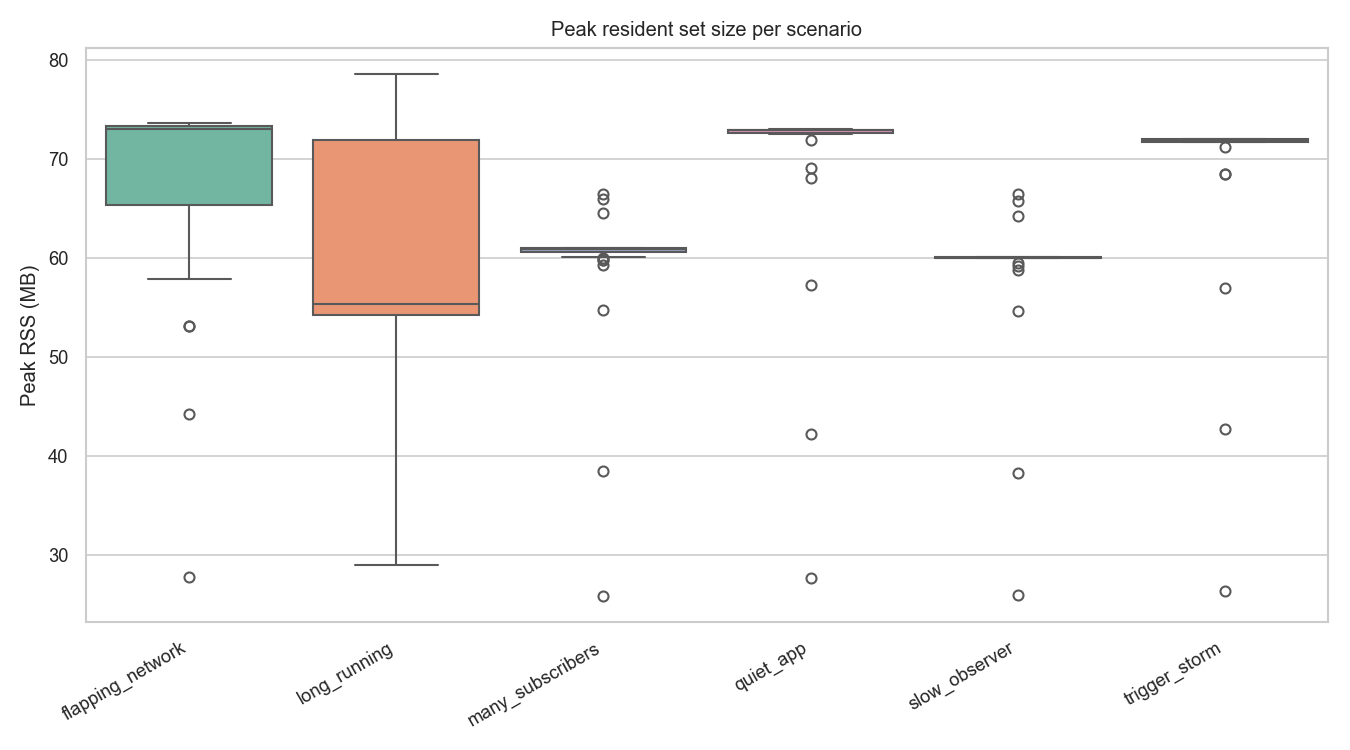
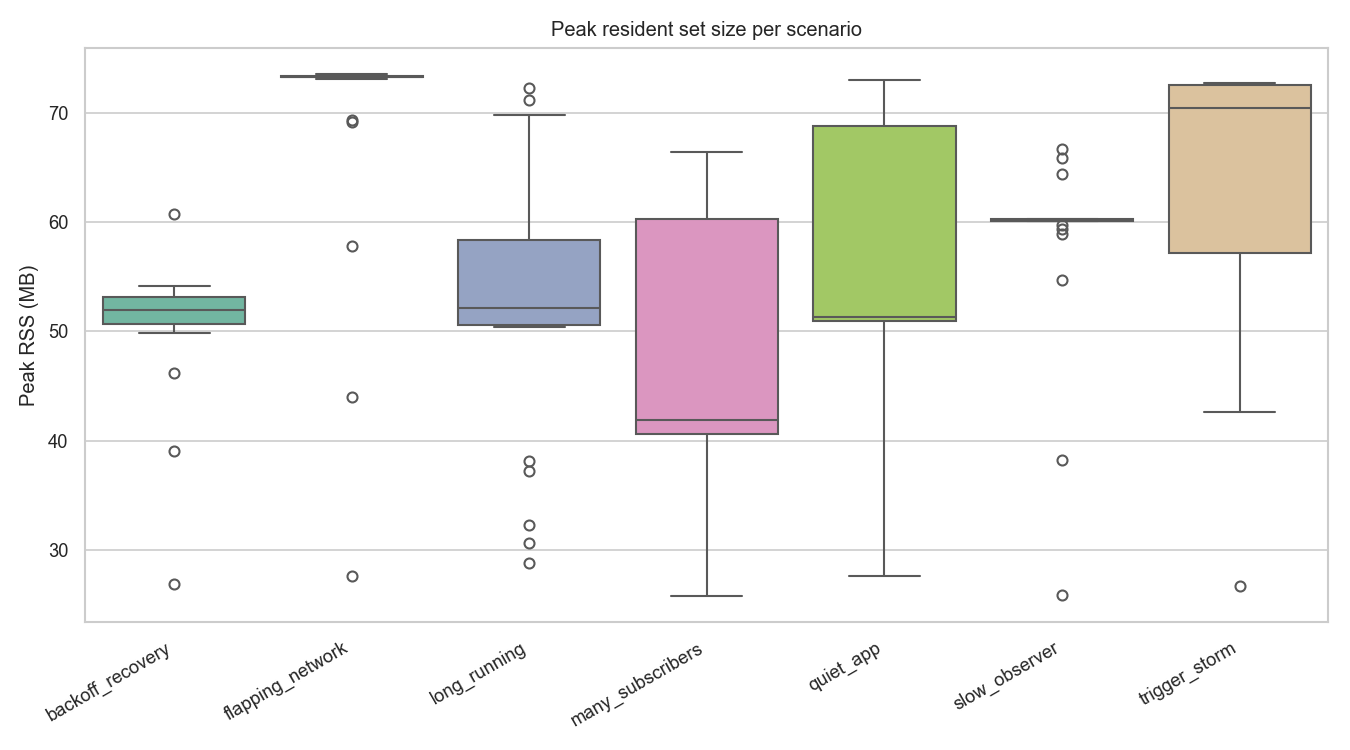
[#24] Add a backoff-recovery benchmark scenario

diff --git a/benchmark/scenarios/backoff_recovery.dart b/benchmark/scenarios/backoff_recovery.dart
@@ -1,0 +1,154 @@
+/// Scenario: backoff recovery.
+///
+/// One outage-then-recovery timeline, run twice per iteration: once on the default
+/// [FixedIntervalSchedule], once on [ExponentialBackoffSchedule]. Both arms see the same local
+/// server going 503 then 200 at the same offsets, so the pair of numbers is the trade the backoff
+/// schedule actually makes: fewer probes while the connection is down, against a later recovery
+/// signal once it returns.
+library;
+
+import 'dart:async';
+
+import 'package:better_internet_connectivity_checker/better_internet_connectivity_checker.dart';
+
+import '../harness/event_loop_stall_meter.dart';
+import '../harness/local_http_server.dart';
+import '../harness/memory_sampler.dart';
+import '../harness/result_writer.dart';
+import '../harness/scenario_args.dart';
+
+/// Base interval for both arms, so the only difference between them is the schedule.
+const _baseInterval = Duration(milliseconds: 500);
+
+/// Ceiling for the backoff arm. Two rungs above the base, so the ladder flattens inside a short
+/// outage rather than running off the end of the window.
+const _maxBackoffDelay = Duration(seconds: 2);
+
+/// Share of one arm's wall clock spent with the server down. The rest is the window in which
+/// recovery has to be noticed, and it has to stay comfortably wider than [_maxBackoffDelay].
+const _outageFraction = 0.6;
+
+typedef _ArmResult = ({
+  int outageRequestCount,
+  Duration recoveryLatency,
+  bool didRecover,
+  int emissionCount,
+});
+
+Future<void> main(List<String> argv) async {
+  final args = ScenarioArgs.parse(argv);
+
+  final writer = await ResultWriter.open(
+    outputPath: args.outputPath,
+    scenario: 'backoff_recovery',
+    sdkVersion: ScenarioArgs.sdkVersion,
+    packageVersion: args.packageVersion,
+    gitSha: args.gitSha,
+  );
+
+  for (var i = 0; i < args.iterations; i++) {
+    await _runIteration(args, iteration: i, writer: writer);
+    forceGc();
+    await Future<void>.delayed(const Duration(milliseconds: 100));
+  }
+
+  await writer.close();
+}
+
+Future<void> _runIteration(
+  ScenarioArgs args, {
+  required int iteration,
+  required ResultWriter writer,
+}) async {
+  // Half the budget per arm; they run back to back so neither competes for the event loop.
+  final armDuration = Duration(seconds: args.durationSeconds) ~/ 2;
+
+  final memorySampler = MemorySampler()..start();
+  final stallMeter = EventLoopStallMeter()..start();
+
+  forceGc();
+  final fixedArm = await _runArm(schedule: const FixedIntervalSchedule(), duration: armDuration);
+  final backoffArm = await _runArm(
+    schedule: const ExponentialBackoffSchedule(maxDelay: _maxBackoffDelay),
+    duration: armDuration,
+  );
+
+  stallMeter.stop();
+  memorySampler.stop();
+
+  writer.writeRecord(
+    iteration: iteration,
+    samples: {
+      'rss_bytes': memorySampler.samples,
+      'stall_microseconds': stallMeter.stalls.map((d) => d.inMicroseconds).toList(growable: false),
+    },
+    summary: {
+      'fixed_outage_request_count': fixedArm.outageRequestCount,
+      'backoff_outage_request_count': backoffArm.outageRequestCount,
+      'probe_savings_ratio': _savingsRatio(
+        fixed: fixedArm.outageRequestCount,
+        backoff: backoffArm.outageRequestCount,
+      ),
+      'fixed_recovery_latency_microseconds': fixedArm.recoveryLatency.inMicroseconds,
+      'backoff_recovery_latency_microseconds': backoffArm.recoveryLatency.inMicroseconds,
+      // 0 marks an arm that never saw recovery inside its window, which makes its latency a
+      // floor rather than a measurement. Filter on these before trusting the pair.
+      'fixed_did_recover': fixedArm.didRecover ? 1 : 0,
+      'backoff_did_recover': backoffArm.didRecover ? 1 : 0,
+      'fixed_emission_count': fixedArm.emissionCount,
+      'backoff_emission_count': backoffArm.emissionCount,
+      'max_stall_microseconds': stallMeter.maxStall.inMicroseconds,
+      'total_blocked_microseconds': stallMeter.totalBlocked.inMicroseconds,
+      'blocked_duty_ratio': stallMeter.blockedDutyRatio,
+      'peak_rss_bytes': memorySampler.peakRss,
+      'rss_delta_bytes': memorySampler.rssDelta,
+    },
+  );
+}
+
+Future<_ArmResult> _runArm({required CheckSchedule schedule, required Duration duration}) async {
+  final outage = Duration(microseconds: (duration.inMicroseconds * _outageFraction).round());
+  final recoveryWindow = duration - outage;
+
+  final server = LocalHttpServer();
+  await server.start();
+  server.setDown();
+
+  final checker = InternetConnection(
+    targets: [ProbeTarget(uri: server.baseUri)],
+    checkInterval: _baseInterval,
+    schedule: schedule,
+  );
+
+  final sinceRecovery = Stopwatch();
+  Duration? recoveryLatency;
+  var emissionCount = 0;
+  final subscription = checker.onStatusChange.listen((status) {
+    emissionCount++;
+    if (status is Reachable && sinceRecovery.isRunning && recoveryLatency == null) {
+      recoveryLatency = sinceRecovery.elapsed;
+    }
+  });
+
+  await Future<void>.delayed(outage);
+  final outageRequestCount = server.requestCount;
+
+  server.setUp();
+  sinceRecovery.start();
+  await Future<void>.delayed(recoveryWindow);
+
+  await subscription.cancel();
+  await checker.dispose();
+  await server.stop();
+
+  return (
+    outageRequestCount: outageRequestCount,
+    // An arm that never recovered reports the window as a floor; `didRecover` says which it is.
+    recoveryLatency: recoveryLatency ?? recoveryWindow,
+    didRecover: recoveryLatency != null,
+    emissionCount: emissionCount,
+  );
+}
+
+double _savingsRatio({required int fixed, required int backoff}) =>
+    fixed == 0 ? 0 : (fixed - backoff) / fixed;

diff --git a/benchmark/python/bicc_bench/config.py b/benchmark/python/bicc_bench/config.py
@@ -51,6 +51,7 @@ SCENARIO_DURATIONS: Final[dict[str, int]] = {
     "trigger_storm": 5,  # 500 triggers at 100/sec
     "many_subscribers": 3,  # x3 sub-Ns inside the binary = ~9s actual per iter
     "long_running": 30,  # smoke; raise to 3600 for a full hour bake
+    "backoff_recovery": 14,  # 2 arms x (4.2s outage + 2.8s recovery window)
     # Micros - value is irrelevant (ignored by the binary), but listed so
     # the orchestrator passes _something_.
     "check_once_overhead": 0,

diff --git a/benchmark/reports/SUMMARY.md b/benchmark/reports/SUMMARY.md
@@ -1,6 +1,6 @@
 # Benchmark results
 
-Captured **2026-07-24** against `0.2.0` at `b27e6b9` on Dart SDK 3.12.2. N=30 iterations per scenario.
+Captured **2026-08-20** against `0.2.0` at `0a2a848` on Dart SDK 3.13.0. N=30 iterations per scenario.
 
 > Per-machine measurements. Numbers below reflect *this* machine (CPU, GC, OS scheduler, thermal state). Your numbers WILL differ - capture your own local baseline before measuring a code delta.
 
@@ -10,12 +10,13 @@ Longest single continuous window in which synchronous work blocked the event loo
 
 | Scenario | N | Median (us) | IQR (us) | Min (us) | Max (us) |
 |---|---:|---:|---:|---:|---:|
-| `flapping_network` | 30 | 4,453 | 3,374 | 0.000 | 12,808 |
-| `long_running` | 30 | 7,708 | 3,669 | 3,992 | 21,360 |
-| `many_subscribers` | 90 | 3,203 | 1,783 | 0.000 | 12,070 |
-| `quiet_app` | 30 | 5,066 | 2,403 | 3,242 | 10,537 |
-| `slow_observer` | 30 | 116,174 | 8,922 | 104,072 | 123,874 |
-| `trigger_storm` | 30 | 4,897 | 1,518 | 1,919 | 10,280 |
+| `backoff_recovery` | 30 | 6,198 | 4,804 | 1,649 | 29,570 |
+| `flapping_network` | 30 | 4,915 | 1,655 | 3,187 | 13,353 |
+| `long_running` | 30 | 12,444 | 6,743 | 5,820 | 105,012 |
+| `many_subscribers` | 90 | 5,068 | 4,203 | 1,100 | 19,206 |
+| `quiet_app` | 30 | 5,614 | 2,066 | 2,887 | 10,821 |
+| `slow_observer` | 30 | 110,298 | 3,186 | 103,052 | 119,700 |
+| `trigger_storm` | 30 | 5,606 | 4,707 | 2,645 | 16,583 |
 
 
 ![Headline max stall](headline_max_stall.png)
@@ -26,12 +27,13 @@ Longest single continuous window in which synchronous work blocked the event loo
 
 | Scenario | N | Median (%) | IQR (%) | Min (%) | Max (%) |
 |---|---:|---:|---:|---:|---:|
-| `flapping_network` | 30 | 0.37% | 0.58% | 0.00% | 1.79% |
-| `long_running` | 30 | 0.55% | 0.40% | 0.06% | 1.49% |
-| `many_subscribers` | 90 | 0.59% | 0.76% | 0.00% | 1.83% |
-| `quiet_app` | 30 | 0.49% | 0.57% | 0.07% | 1.60% |
-| `slow_observer` | 30 | 57.38% | 0.78% | 56.47% | 58.47% |
-| `trigger_storm` | 30 | 0.38% | 0.69% | 0.06% | 1.74% |
+| `backoff_recovery` | 30 | 0.20% | 0.15% | 0.07% | 8.19% |
+| `flapping_network` | 30 | 0.11% | 0.54% | 0.04% | 1.28% |
+| `long_running` | 30 | 0.86% | 1.22% | 0.32% | 14.78% |
+| `many_subscribers` | 90 | 0.80% | 0.86% | 0.04% | 2.76% |
+| `quiet_app` | 30 | 0.59% | 0.57% | 0.14% | 1.76% |
+| `slow_observer` | 30 | 55.01% | 0.37% | 54.46% | 56.28% |
+| `trigger_storm` | 30 | 0.57% | 0.77% | 0.05% | 2.21% |
 
 ## Peak resident set size per scenario
 
@@ -39,12 +41,13 @@ Peak RSS captured via `ProcessInfo.currentRss` sampled every 500 ms (every 250 m
 
 | Scenario | N | Median (MB) | IQR (MB) | Min (MB) | Max (MB) |
 |---|---:|---:|---:|---:|---:|
-| `flapping_network` | 30 | 73.05 | 9.33 | 27.73 | 73.61 |
-| `long_running` | 30 | 55.29 | 17.97 | 28.95 | 78.53 |
-| `many_subscribers` | 90 | 60.89 | 0.36 | 25.86 | 66.41 |
-| `quiet_app` | 30 | 72.95 | 0.33 | 27.67 | 72.97 |
-| `slow_observer` | 30 | 60.02 | 0.11 | 25.89 | 66.48 |
-| `trigger_storm` | 30 | 71.84 | 0.28 | 26.33 | 72.03 |
+| `backoff_recovery` | 30 | 51.99 | 2.56 | 26.89 | 60.70 |
+| `flapping_network` | 30 | 73.27 | 0.14 | 27.70 | 73.48 |
+| `long_running` | 30 | 52.13 | 7.94 | 28.88 | 72.23 |
+| `many_subscribers` | 90 | 41.91 | 19.64 | 25.88 | 66.44 |
+| `quiet_app` | 30 | 51.31 | 18.02 | 27.64 | 73.00 |
+| `slow_observer` | 30 | 60.19 | 0.16 | 25.91 | 66.62 |
+| `trigger_storm` | 30 | 70.38 | 15.39 | 26.73 | 72.73 |
 
 
 ![Memory peak RSS](memory_peak_rss.png)
@@ -55,11 +58,12 @@ Same metric as the headline chart, but with the `slow_observer` outlier excluded
 
 | Scenario | N | Median (us) | IQR (us) | Min (us) | Max (us) |
 |---|---:|---:|---:|---:|---:|
-| `flapping_network` | 30 | 4,453 | 3,374 | 0.000 | 12,808 |
-| `long_running` | 30 | 7,708 | 3,669 | 3,992 | 21,360 |
-| `many_subscribers` | 90 | 3,203 | 1,783 | 0.000 | 12,070 |
-| `quiet_app` | 30 | 5,066 | 2,403 | 3,242 | 10,537 |
-| `trigger_storm` | 30 | 4,897 | 1,518 | 1,919 | 10,280 |
+| `backoff_recovery` | 30 | 6,198 | 4,804 | 1,649 | 29,570 |
+| `flapping_network` | 30 | 4,915 | 1,655 | 3,187 | 13,353 |
+| `long_running` | 30 | 12,444 | 6,743 | 5,820 | 105,012 |
+| `many_subscribers` | 90 | 5,068 | 4,203 | 1,100 | 19,206 |
+| `quiet_app` | 30 | 5,614 | 2,066 | 2,887 | 10,821 |
+| `trigger_storm` | 30 | 5,606 | 4,707 | 2,645 | 16,583 |
 
 
 ![Scenario stability](scenario_stability.png)
@@ -70,11 +74,11 @@ From the `status_emission` micro (synchronous broadcast, isolated from the rest 
 
 | Subscribers | N | Median (us/emit) | IQR (us) |
 |---:|---:|---:|---:|
-| 1 | 30 | 0.137 | 0.002 |
-| 10 | 30 | 1.00 | 0.010 |
-| 25 | 30 | 2.31 | 0.026 |
-| 50 | 30 | 4.47 | 0.061 |
-| 100 | 30 | 8.96 | 0.174 |
+| 1 | 30 | 0.133 | 0.004 |
+| 10 | 30 | 1.00 | 0.022 |
+| 25 | 30 | 2.30 | 0.065 |
+| 50 | 30 | 4.47 | 0.112 |
+| 100 | 30 | 8.96 | 0.218 |
 
 
 ![Subscriber scaling](subscriber_scaling.png)

diff --git a/benchmark/README.md b/benchmark/README.md
@@ -231,9 +231,9 @@ uv run python run.py compare \
   ../results-local/after/aggregated.json
 ```
 
-### Long-running captures (N=30 full sweep, ~40 min)
+### Long-running captures (N=30 full sweep, ~45 min)
 
-A full N=30 sweep on this hardware (Apple Silicon macOS) takes ~37–40
+A full N=30 sweep on this hardware (Apple Silicon macOS) takes ~45–50
 minutes. Two operational notes for long runs:
 
 ```bash
@@ -307,33 +307,38 @@ to a local path (e.g. `../results-local/my-run/charts/`) and leave the
 committed set alone.
 
 <details>
-<summary><strong>Reference run — 2026-07-24, Apple Silicon macOS, Dart 3.12.2, N=30</strong> (maintainer's machine; your numbers WILL differ)</summary>
+<summary><strong>Reference run — 2026-08-20, Apple Silicon macOS, Dart 3.13.0, N=30</strong> (maintainer's machine; your numbers WILL differ)</summary>
 
 These figures are a sanity check, not a target. "Am I in the right ballpark?"
 not "did I beat the baseline?". Treat them as approximate.
 
 | Scenario / N | Metric | Median |
 |---|---|---|
-| **`slow_observer`** | **`max_stall_microseconds`** | **116,174 µs (~116 ms)** |
-| `slow_observer` | `blocked_duty_ratio` | 57.4 % |
-| `quiet_app` | `max_stall_microseconds` | 5,066 µs (~5 ms) |
-| `quiet_app` | `dispose_microseconds` | 6.0 µs |
-| `check_once_overhead` (micro) | `microseconds_per_check` | 0.43 µs |
+| **`slow_observer`** | **`max_stall_microseconds`** | **110,298 µs (~110 ms)** |
+| `slow_observer` | `blocked_duty_ratio` | 55.0 % |
+| `quiet_app` | `max_stall_microseconds` | 5,614 µs (~6 ms) |
+| `quiet_app` | `dispose_microseconds` | 4.5 µs |
+| `check_once_overhead` (micro) | `microseconds_per_check` | 0.39 µs |
 | `observer_dispatch` (micro) | `microseconds_per_dispatch` | 0.01 µs |
-| `status_emission` N=1 (micro) | `microseconds_per_emission` | 0.14 µs |
+| `status_emission` N=1 (micro) | `microseconds_per_emission` | 0.13 µs |
 | `status_emission` N=10 (micro) | `microseconds_per_emission` | 1.00 µs |
-| `status_emission` N=25 (micro) | `microseconds_per_emission` | 2.31 µs |
+| `status_emission` N=25 (micro) | `microseconds_per_emission` | 2.30 µs |
 | `status_emission` N=50 (micro) | `microseconds_per_emission` | 4.47 µs |
 | `status_emission` N=100 (micro) | `microseconds_per_emission` | 8.96 µs |
 | `trigger_storm` | `emissions_per_trigger` | 0.002 |
-| `many_subscribers` N=100 | `max_stall_microseconds` | 3,185 µs (~3 ms) |
+| `many_subscribers` N=100 | `max_stall_microseconds` | 4,336 µs (~4 ms) |
 | `flapping_network` (9 s) | `emission_count` | 3 (2 reachable + 1 unreachable) |
-| `long_running` (30 s smoke) | `rss_growth_bytes_per_minute` | ~0.5 MB/min |
+| `long_running` (30 s smoke) | `rss_growth_bytes_per_minute` | ~0.44 MB/min |
+| `backoff_recovery` | `fixed_outage_request_count` | 9 probes |
+| `backoff_recovery` | `backoff_outage_request_count` | 4 probes |
+| `backoff_recovery` | `probe_savings_ratio` | 55.6 % |
+| `backoff_recovery` | `fixed_recovery_latency_microseconds` | 315,016 µs (~0.3 s) |
+| `backoff_recovery` | `backoff_recovery_latency_microseconds` | 1,306,740 µs (~1.3 s) |
 
 The `slow_observer` figures capture the package's worst case under a
 deliberately-blocking synchronous observer (50 ms `sleep` per callback,
-100 ms interval): ~116 ms worst continuous stall (two callbacks in one
-microtask drain) and ~57 % of the run blocked. Both are properties of the
+100 ms interval): ~110 ms worst continuous stall (two callbacks in one
+microtask drain) and ~55 % of the run blocked. Both are properties of the
 *observer*, not something the package can dispatch its way out of — a Dart
 isolate is single-threaded. Every other scenario sits at a sub-1 %
 blocked-duty noise floor. Your machine will differ in absolute terms.

diff --git a/README.md b/README.md
@@ -429,7 +429,7 @@ methodology and reproduction steps are in
 [`benchmark/README.md`](https://github.com/LahaLuhem/better_internet_connectivity_checker/blob/main/benchmark/README.md).
 
 Numbers and charts below are the maintainer's machine snapshot (Apple Silicon macOS,
-Dart SDK 3.12.2, N=30). They are sanity-check ballparks, not a performance contract —
+Dart SDK 3.13.0, N=30). They are sanity-check ballparks, not a performance contract —
 CPU, GC, OS scheduler, and thermal state vary across machines, so your absolute
 numbers WILL differ. Capture your own local baseline before claiming a regression
 or an improvement from a code change.
@@ -461,7 +461,9 @@ Deliberate non-features that may affect how you use the package:
   a connection that comes back is not noticed until the next check, so an aggressive `maxDelay`
   can leave an app believing it is offline for minutes. Pair backoff with an
   `externalRecheckTrigger` and keep `maxDelay` inside the staleness you can tolerate. The
-  default schedule has no such gap.
+  default schedule has no such gap. The `backoff_recovery` benchmark puts numbers on the
+  trade: median 55.6 % fewer probes during an outage, for recovery noticed in ~1.3 s
+  instead of ~0.3 s.
 - **`AllReachablePolicy` is brittle with arbitrary public endpoints** — any one being
   briefly unavailable flags a working connection as offline. Use it only with a curated
   probe list (e.g. enterprise internal endpoints); see the policy's dartdoc.
